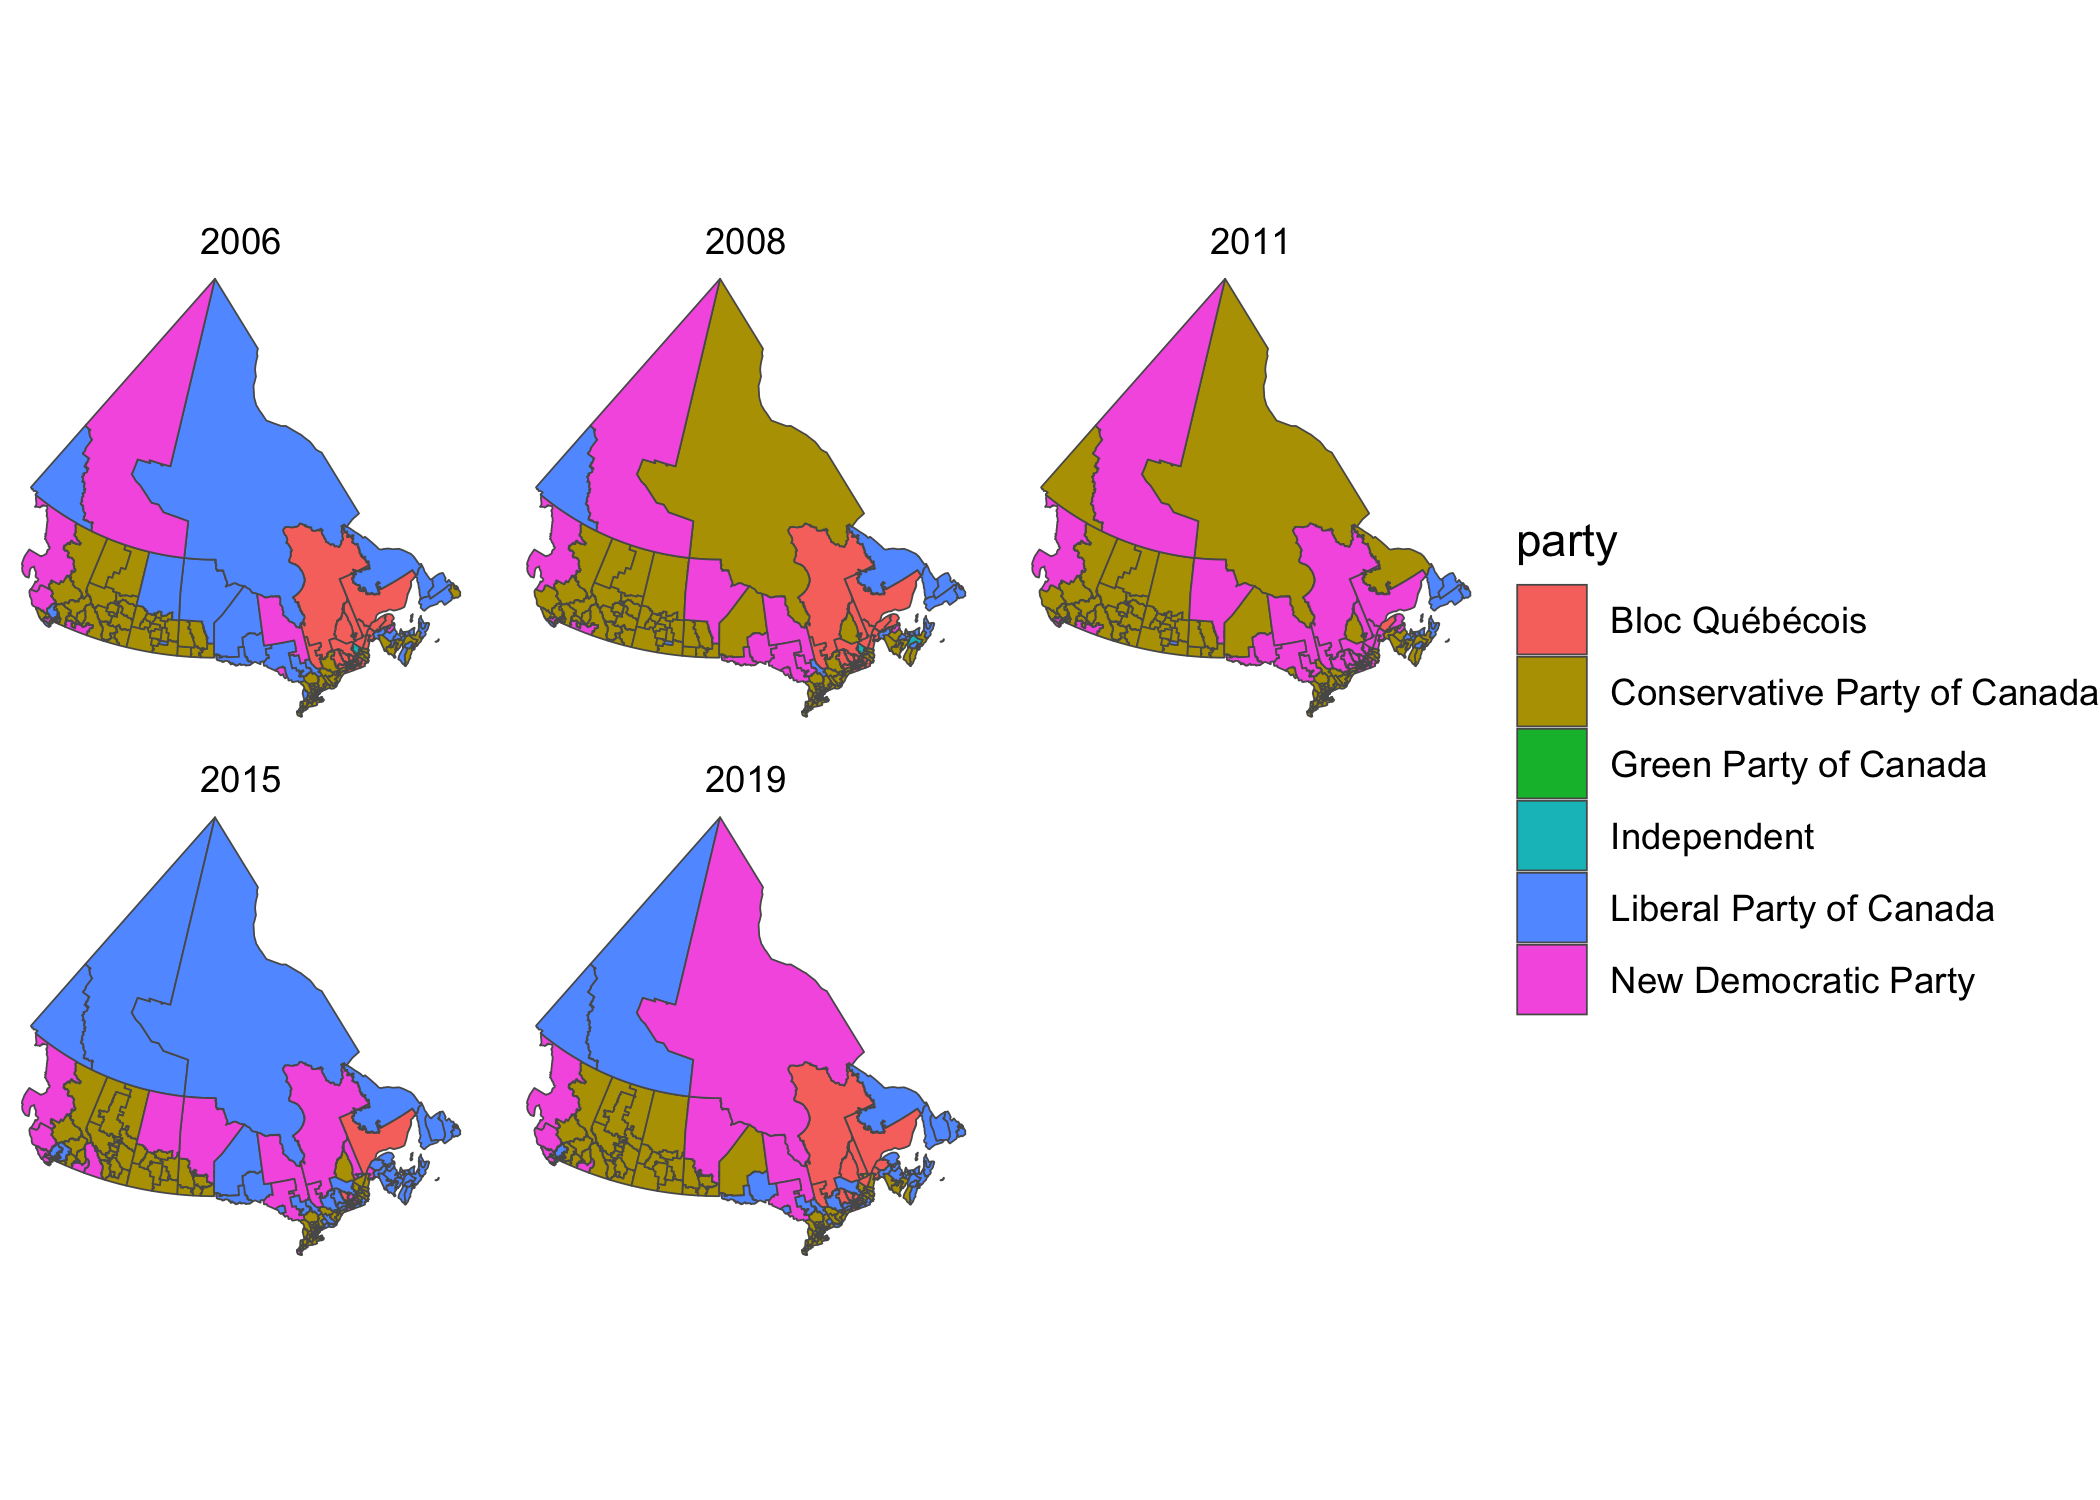
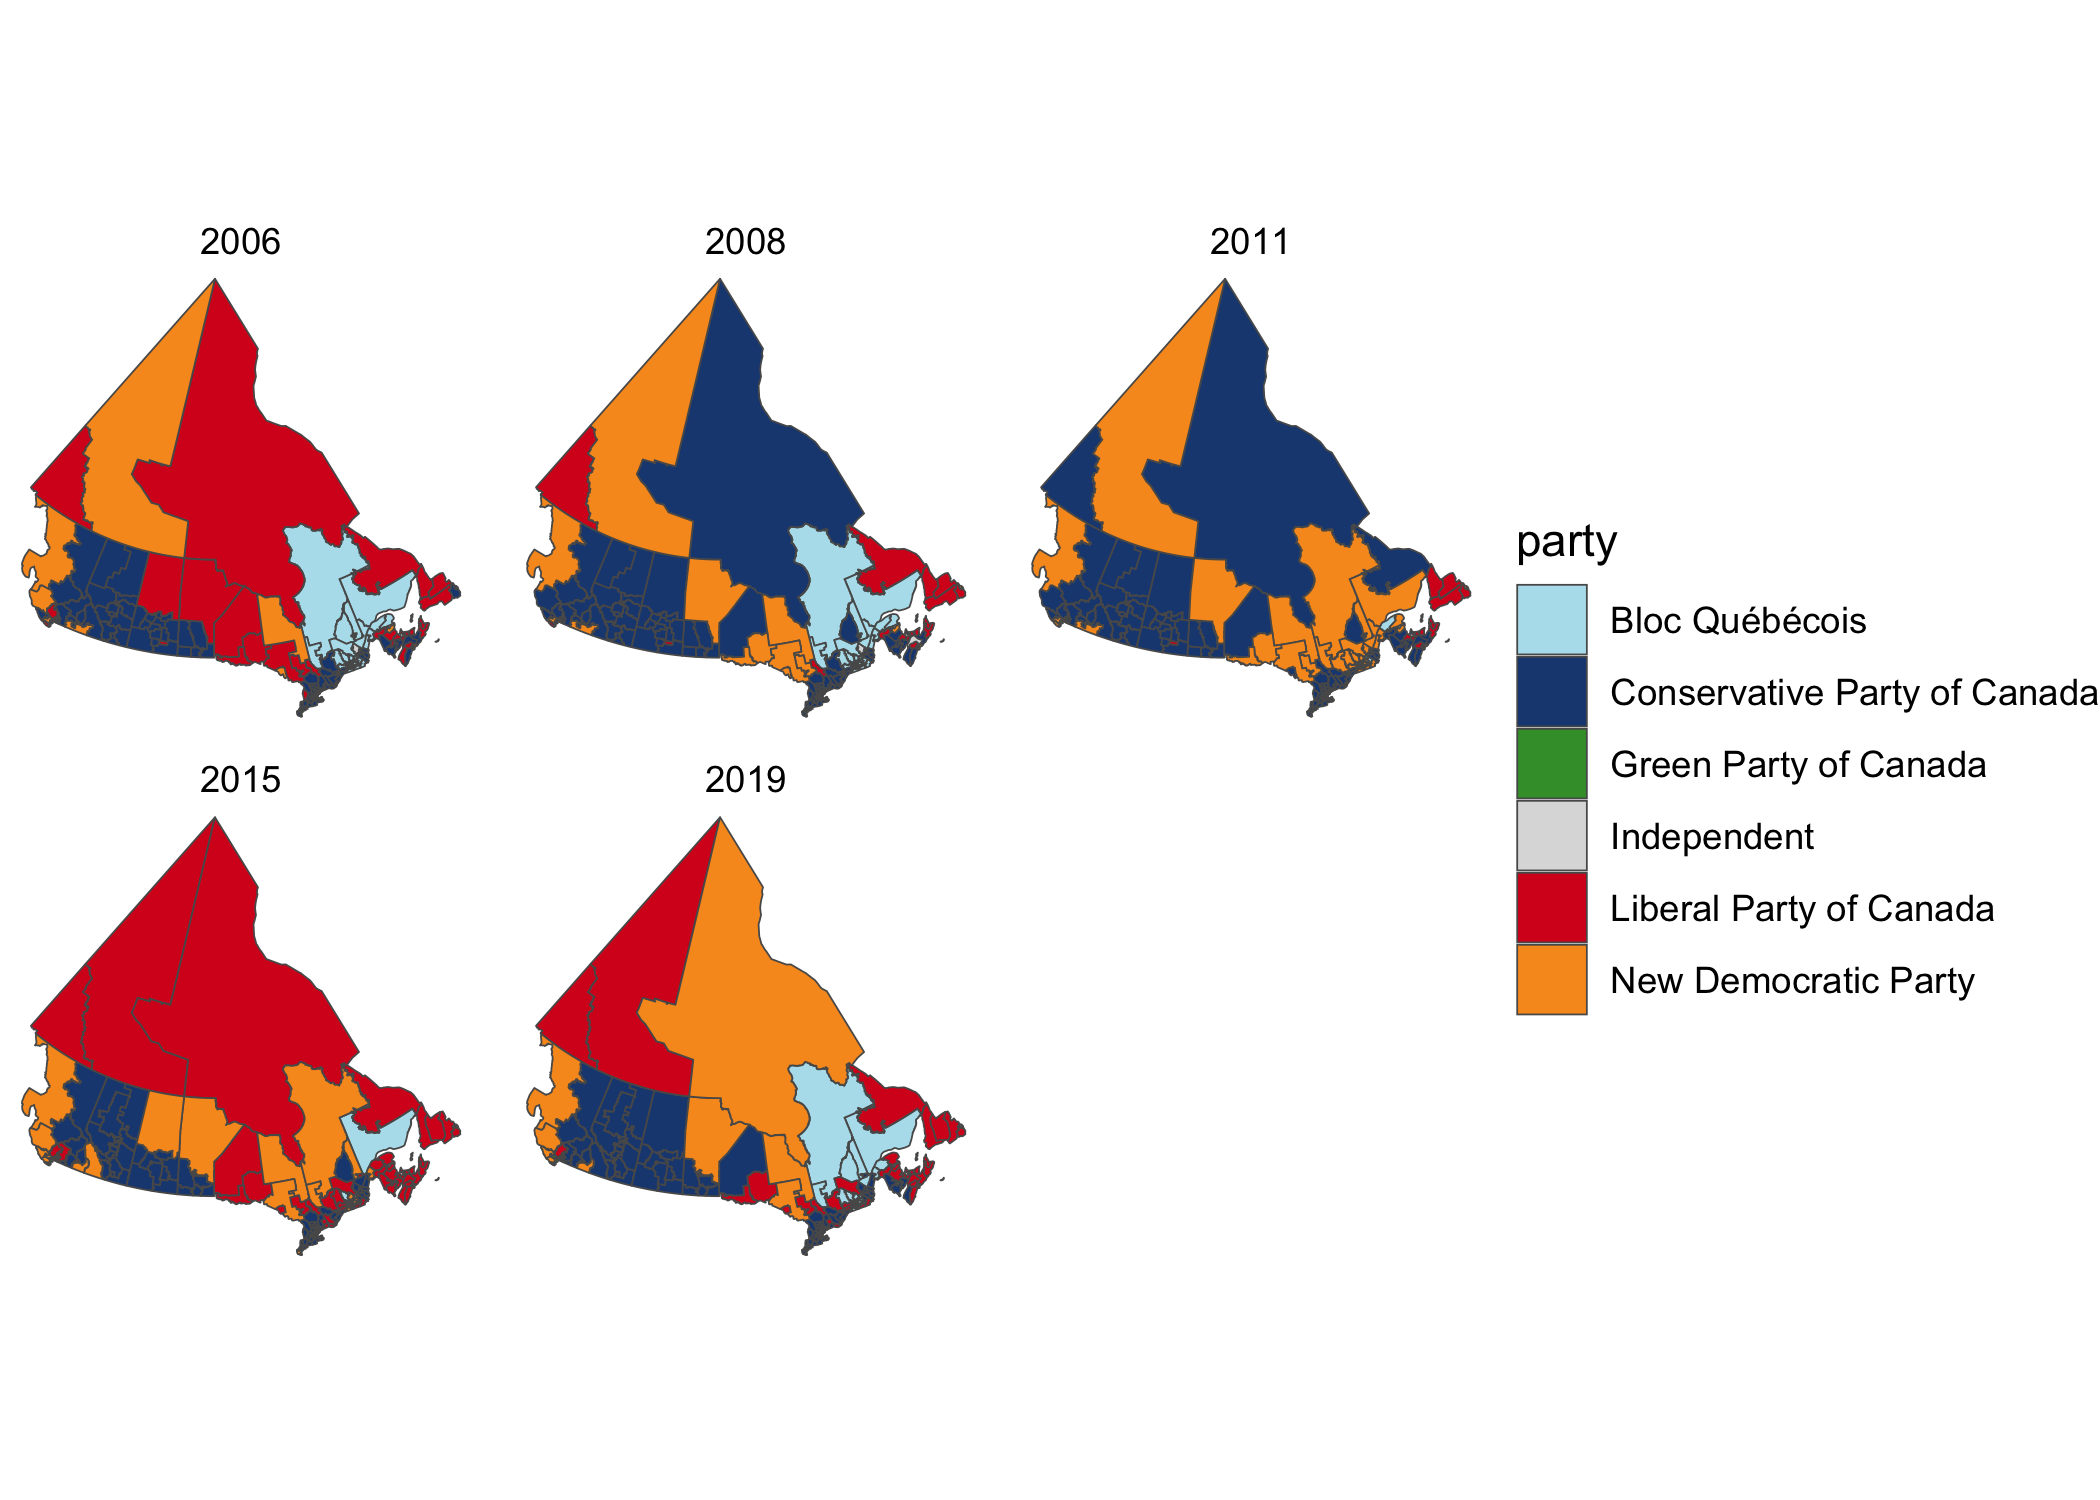
add ggplot scale for parties

diff --git a/README.md b/README.md
@@ -107,6 +107,7 @@ results %>%
   ggplot(aes(fill = party, geometry = boundary))  +
   geom_sf(size = 0.2) +
   theme_void() +
+  scale_fill_party() +
   facet_wrap(vars(year(election_date)))
 ```
 
